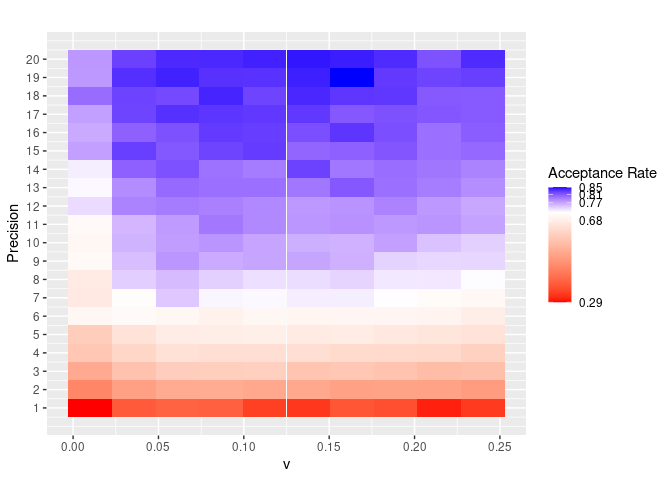
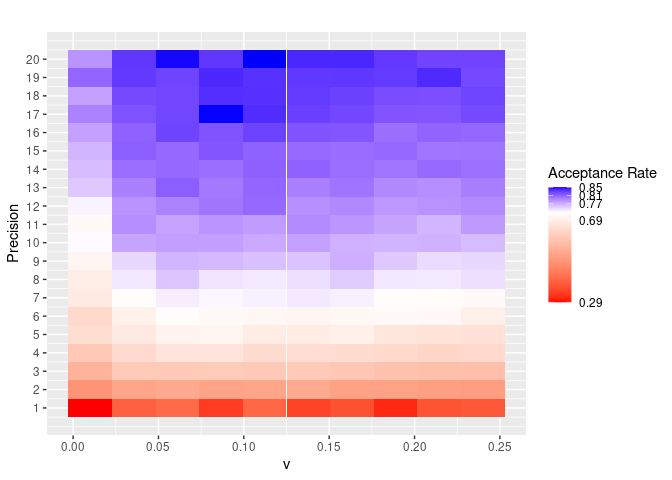
Algorithm convergence monitoring graphs are added to simulate samples of the conditional distribution of X1 given X2.

diff --git a/randomsamples.md b/randomsamples.md
@@ -17,26 +17,76 @@ Graph_Fc_X1(v1 = 0.05,"v=0.05",v2 = 0.10,"v=0.10",v3 = 0.20,"v=0.20",ae = a1,be 
 
 Function to monitor the acceptance rate and effective size for different
 values of variance (v_values) and precision (prop_prec) provided
+
+``` r
+Mon_Measure(N=10^4, prop_prec_values=seq(1, 20, by = 1), a=a1, b=b1, c=c1, d=d1, v_values=seq(0.01, 0.24, length.out = 10),thin = 5,burnin = 500)
+```
+
 ![](randomsamples_files/figure-gfm/unnamed-chunk-2-1.png)<!-- -->![](randomsamples_files/figure-gfm/unnamed-chunk-2-2.png)<!-- -->
 
 Function to monitor the R-Hat for different values of variance
 (s_values) and precision (prop_prec) provided
-![](randomsamples_files/figure-gfm/unnamed-chunk-3-1.png)<!-- --> \##
-Including Code
-
-You can include R code in the document as follows:
 
 ``` r
-summary(cars)
+Mon_R_Hat(N=10^4, prop_prec_values=seq(1, 20, by = 1), a=a1, b=b1, c=c1, d=d1, v_values=seq(0.01, 0.24, length.out = 10),thin = 5,burnin = 500)
 ```
 
-    ##      speed           dist       
-    ##  Min.   : 4.0   Min.   :  2.00  
-    ##  1st Qu.:12.0   1st Qu.: 26.00  
-    ##  Median :15.0   Median : 36.00  
-    ##  Mean   :15.4   Mean   : 42.98  
-    ##  3rd Qu.:19.0   3rd Qu.: 56.00  
-    ##  Max.   :25.0   Max.   :120.00
+![](randomsamples_files/figure-gfm/unnamed-chunk-3-1.png)<!-- -->
+
+## Muestra aleatoria para la distribución condicional de X1 dado X2
+
+El ejemplo de simulación de una muestra de tamaño N=10000 (thin=100)
+with given values of a, b, c, d and variance (s) es generada a
+continuación, Plot of Histogram and density, trace, convergence control
+using averaging and autocorrelation function.
+
+``` r
+N=10^4
+ExampleFC_X1_X2=Gen_FC_X1_X2(N,prop_prec = 3,a=a1,b=b1,c=c1,d=d1,v=0.1,option="all", thin = 1, burnin = 50,X10_given = "random",target_acceptance = 0.4,dig_tol=5)
+Graphs(as.data.frame(ExampleFC_X1_X2$thinned_chain[seq(1, length(ExampleFC_X1_X2$thinned_chain), by = 1)]),"X1", width = 40,lscatt = 0.005,uscatt = 0.005)
+```
+
+    ## `stat_bin()` using `bins = 30`. Pick better value with `binwidth`.
+
+![](randomsamples_files/figure-gfm/unnamed-chunk-4-1.png)<!-- -->
+
+La tasa de aceptación, tamaño de muestra efectiva y longitud de la
+cadena generada en ExampleFC_X1_X2 fue:
+
+``` r
+data.frame("Acceptance Rate"=ExampleFC_X1_X2$acc_rate,"Acceptance Rate Post Burnin"=ExampleFC_X1_X2$acc_rate_pos_burnin, "ESS"=effectiveSize(ExampleFC_X1_X2$thinned_chain),"Length"=length(ExampleFC_X1_X2$thinned_chain), "Precision"=ExampleFC_X1_X2$precision)
+```
+
+### Monitoreo de convergencia con nueve semillas fijas
+
+``` r
+N=10^3
+seedgiv=seq(0.1,0.9,0.1)
+ExampleFC_X1_X2_seedgiven=matrix(data=NA,nrow = length(seq(101, N, by = 5)),ncol=9, dimnames=list(list(),list("0.1","0.2","0.3","0.4","0.5","0.6","0.7","0.8","0.9")))
+for (i in 1:9) {
+  ExampleFC_X1_X2_seedgiven[,i]=Gen_FC_X1_X2(N=N,prop_prec = 4,a=a1,b=b1,c=c1,d=d1,v=0.05,option="all", thin = 5,burnin = 100,X10_given = seedgiv[i])$thinned_chain
+}
+ExampleFC_X1_X2_seedgiven=as.data.frame(ExampleFC_X1_X2_seedgiven)
+
+# Matrix of cumsum of all simulations obtained.
+N=nrow(ExampleFC_X1_X2_seedgiven)
+ExampleFC_X1_X2_seedgiven_cum=apply(ExampleFC_X1_X2_seedgiven,2,cumsum)/(1:N)
+ExampleFC_X1_X2_seedgiven_cum=as.data.frame(ExampleFC_X1_X2_seedgiven_cum)
+
+# Matrix organization for plotting.
+ExampleFC_X1_X2_seedgiven_cum=gather(ExampleFC_X1_X2_seedgiven_cum,key="Seed",value="FCmu")
+ExampleFC_X1_X2_seedgiven_cum$Sim=rep(1:N,9)
+# Graphic
+Piece1_Grap_FC=ggplot(ExampleFC_X1_X2_seedgiven_cum,aes(x=Sim ,y=FCmu,group= Seed, color=Seed))+geom_line()+ylab(expression(hat(X)[1]^(t)))+xlab("t")+xlim(0,50)
+
+Piece2_Grap_FC=ggplot(ExampleFC_X1_X2_seedgiven_cum,aes(x=Sim ,y=FCmu,group= Seed, color=Seed))+geom_line()+ylab(expression(hat(X)[1]^(t)))+xlab("t")+xlim(0,250)
+
+Full_Grap_FC=ggplot(ExampleFC_X1_X2_seedgiven_cum,aes(x=Sim ,y=FCmu,group= Seed, color=Seed))+geom_line()+ylab(expression(hat(X)[1]^(t)))+xlab("t")
+
+grid.arrange(arrangeGrob(Piece1_Grap_FC, Piece2_Grap_FC, Full_Grap_FC,ncol=2, nrow=2, widths=c(2, 2), heights=c(2,2),layout_matrix=rbind(c(1,2),c(3,3))),bottom="Convergence control using averaging")
+```
+
+![](randomsamples_files/figure-gfm/unnamed-chunk-6-1.png)<!-- -->
 
 ## Including Plots
 
